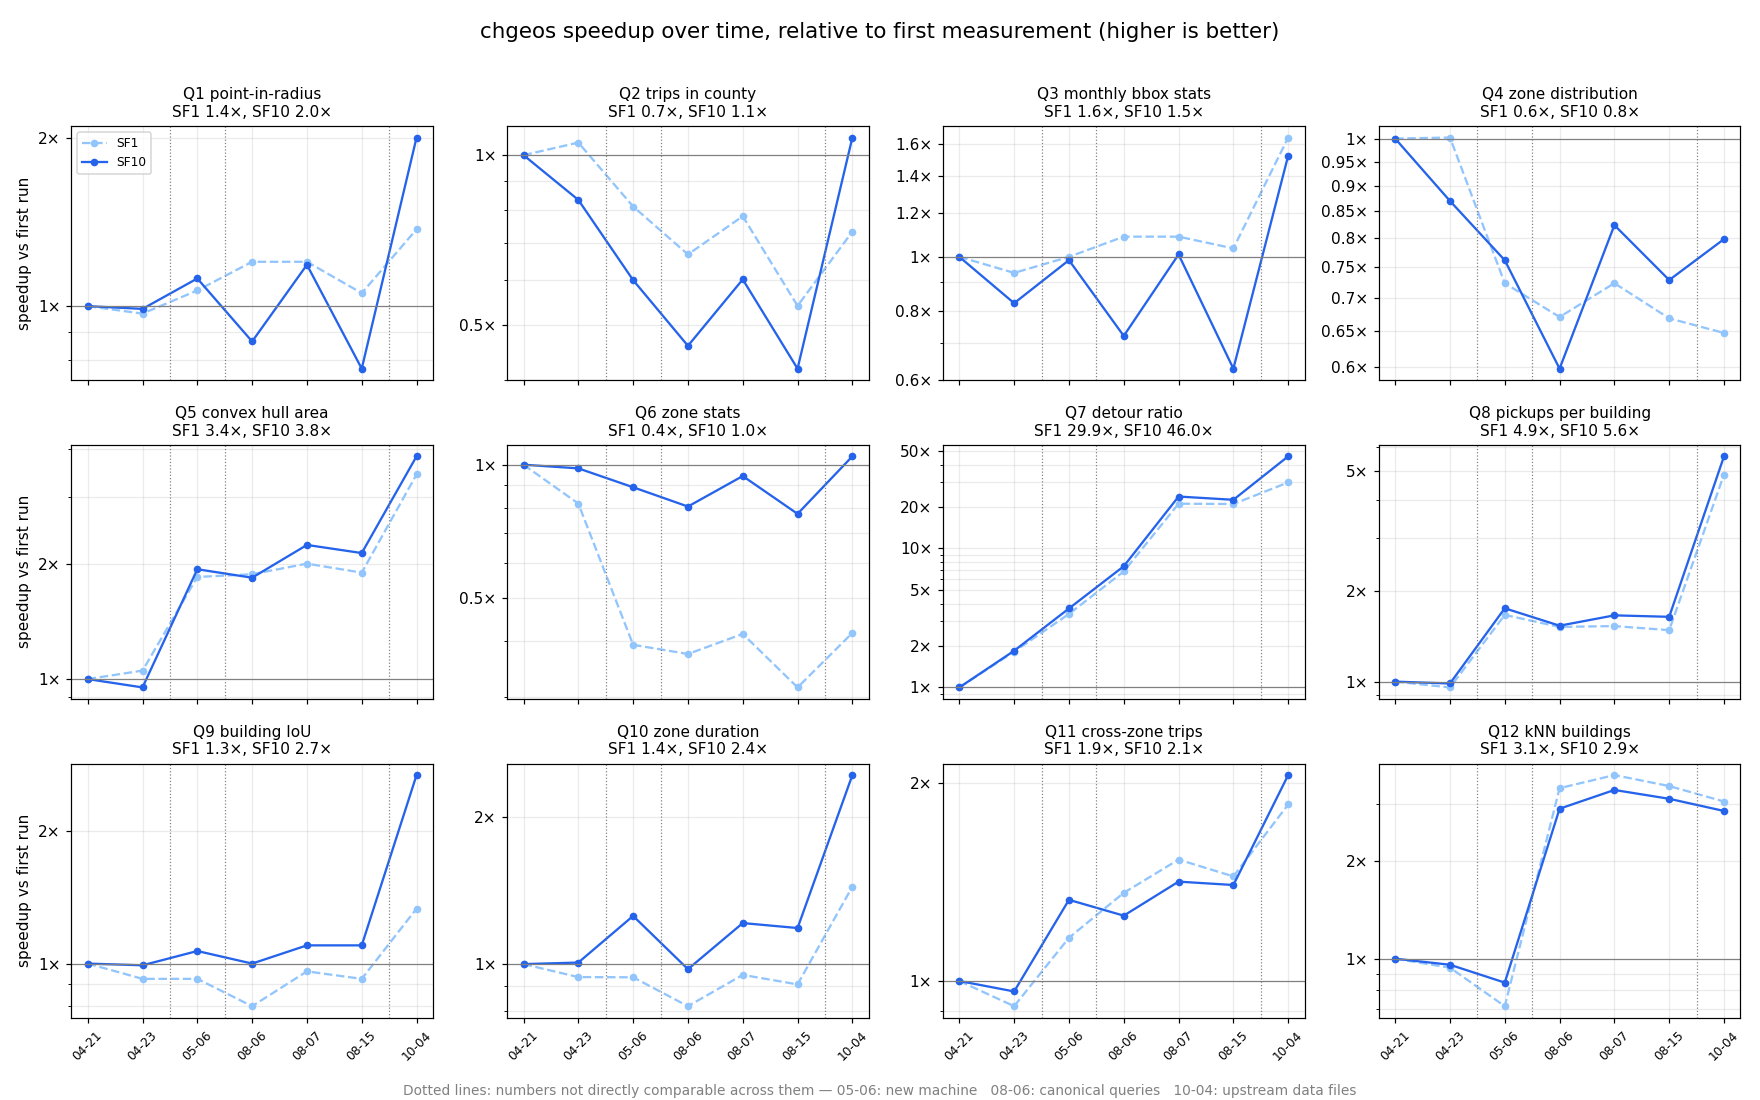
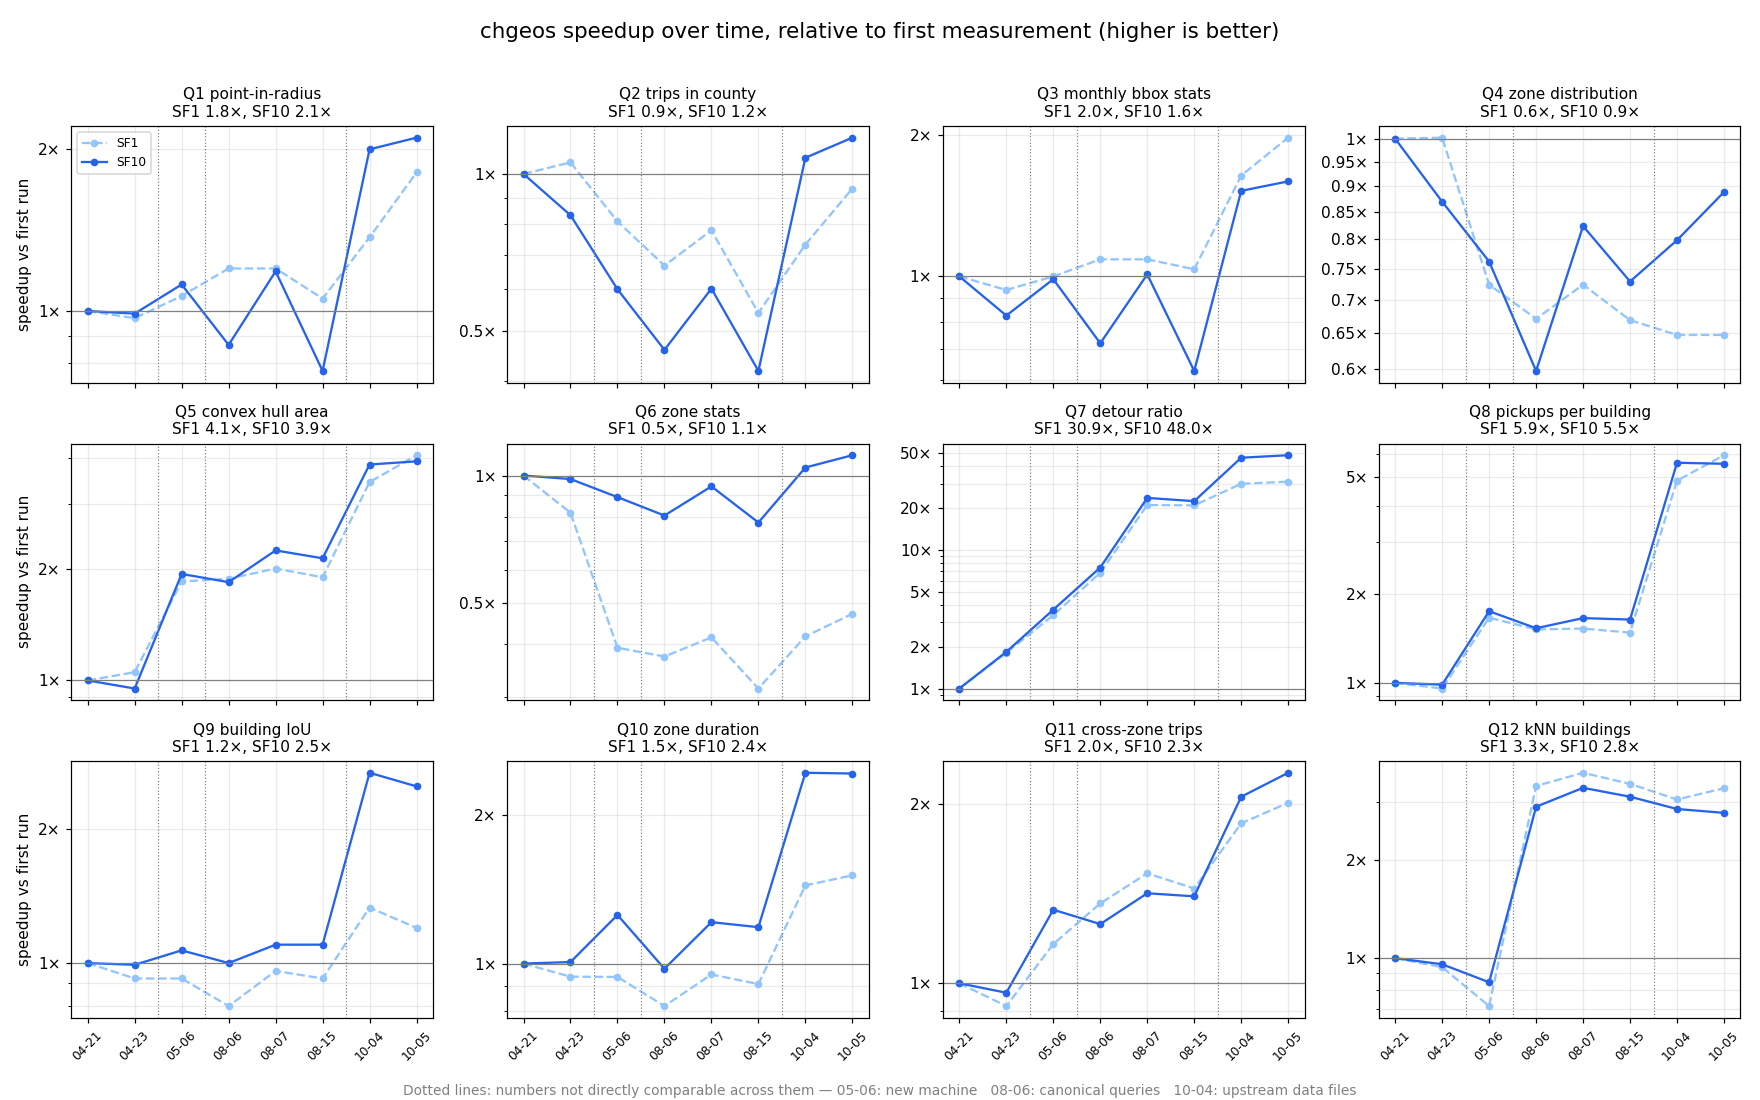
Re-measure all engines on an idle machine
chgeos SF1/SF10 at CH d0c96a2e6aa, then DuckDB 1.5.6, SedonaDB 0.4.1
and PyCanopy 0.4.1 straight after on the same idle box (5 runs, avg,
120 s timeout). PyCanopy was ~2x faster on Q10-Q12 than in the
earlier busy-machine run and now takes SF1 Q10-Q12 and SF10 Q11-Q12;
SedonaDB ties SF10 Q10. Tallies: SF1 7 wins + 2 ties, SF10 6 wins +
3 ties. Prose and README status updated to match.

Claude-Session: https://claude.ai/code/session_01JZhEQgwKLv4Drk38uDWLaY

diff --git a/BENCHMARK.md b/BENCHMARK.md
@@ -6,11 +6,11 @@ Apache Sedona (SedonaDB) and PyCanopy on the spatial benchmark suite.
 **Hardware:** AMD Ryzen 9 5900X, 128 GB RAM  
 **Dataset:** synthetic taxi trip data from https://github.com/apache/sedona-spatialbench — SF1 = 6M trips, SF10 = 60M trips  
 **Timeout:** 120 s (all engines)  
-**chgeos version:** 2026-10-04 (CH `95fbe4909e6`)  
+**chgeos version:** 2026-10-04 (CH `d0c96a2e6aa`)  
 **DuckDB version:** 1.5.6  
 **SedonaDB version:** 0.4.1  
 **PyCanopy version:** 0.4.1 (Polars 1.44.2)  
-**Competitors measured:** 2026-10-04, same box and split Parquet files, via sedona-spatialbench `run_benchmark.py`  
+**Competitors measured:** 2026-10-04/05, same box and split Parquet files, via sedona-spatialbench `run_benchmark.py`, straight after the chgeos runs on an otherwise idle machine  
 **Runs:** 5 per query (average reported)  
 **Winner:** fastest engine; margins under 5% are reported as a tie
 
@@ -20,29 +20,28 @@ Apache Sedona (SedonaDB) and PyCanopy on the spatial benchmark suite.
 
 | Query | Description                        | chgeos   | DuckDB   | Sedona  | PyCanopy | Winner   |
 |-------|------------------------------------|----------|----------|---------|----------|----------|
-| Q1    | Point-in-radius filter             | 0.07 s   | 0.12 s   | 0.53 s  | 0.36 s   | chgeos   |
-| Q2    | Count trips in county polygon      | 0.08 s   | 0.19 s   | 1.34 s  | 0.35 s   | chgeos   |
-| Q3    | Monthly stats in bbox+buffer       | 0.05 s   | 0.17 s   | 0.62 s  | 0.39 s   | chgeos   |
-| Q4    | Zone distribution (top-1000 tips)  | 0.68 s   | 0.70 s   | 2.53 s  | 2.42 s   | Tie      |
-| Q5    | Convex hull area per customer/month| 0.46 s   | 0.83 s   | 3.83 s  | 1.62 s   | chgeos   |
-| Q6    | Zone stats for bbox-intersect zones| 0.77 s   | 0.88 s   | 2.32 s  | 4.52 s   | chgeos   |
-| Q7    | Detour ratio (all trips)           | 0.14 s   | 0.28 s   | 0.78 s  | 2.50 s   | chgeos   |
-| Q8    | Nearby pickups per building        | 0.05 s   | 0.48 s   | 0.34 s  | 2.20 s   | chgeos   |
-| Q9    | Building conflation via IoU        | 0.02 s   | 0.03 s   | 0.13 s  | 0.02 s   | chgeos   |
-| Q10   | Zone avg duration/distance         | 2.58 s   | 110.10 s | 6.20 s  | 4.18 s   | chgeos   |
-| Q11   | Cross-zone trip count              | 4.60 s   | TIMEOUT  | 10.39 s | 5.97 s   | chgeos   |
-| Q12   | 5 nearest buildings per trip (kNN) | 2.44 s   | TIMEOUT  | 3.97 s  | 3.31 s   | chgeos   |
+| Q1    | Point-in-radius filter             | 0.05 s   | 0.12 s   | 0.15 s  | 0.28 s   | chgeos   |
+| Q2    | Count trips in county polygon      | 0.06 s   | 0.18 s   | 0.68 s  | 0.23 s   | chgeos   |
+| Q3    | Monthly stats in bbox+buffer       | 0.04 s   | 0.17 s   | 0.28 s  | 0.29 s   | chgeos   |
+| Q4    | Zone distribution (top-1000 tips)  | 0.68 s   | 0.66 s   | 0.72 s  | 1.48 s   | Tie      |
+| Q5    | Convex hull area per customer/month| 0.39 s   | 0.67 s   | 2.63 s  | 0.74 s   | chgeos   |
+| Q6    | Zone stats for bbox-intersect zones| 0.68 s   | 0.83 s   | 0.70 s  | 1.50 s   | Tie      |
+| Q7    | Detour ratio (all trips)           | 0.14 s   | 0.27 s   | 0.53 s  | 0.53 s   | chgeos   |
+| Q8    | Nearby pickups per building        | 0.04 s   | 0.45 s   | 0.16 s  | 0.27 s   | chgeos   |
+| Q9    | Building conflation via IoU        | 0.02 s   | 0.03 s   | 0.03 s  | 0.03 s   | chgeos   |
+| Q10   | Zone avg duration/distance         | 2.46 s   | 103.21 s | 2.44 s  | 2.20 s   | PyCanopy |
+| Q11   | Cross-zone trip count              | 4.25 s   | TIMEOUT  | 3.99 s  | 2.47 s   | PyCanopy |
+| Q12   | 5 nearest buildings per trip (kNN) | 2.25 s   | TIMEOUT  | 3.19 s  | 1.74 s   | PyCanopy |
 
-**SF1 wins — chgeos: 11, DuckDB: 0, Sedona: 0, PyCanopy: 0, Ties: 1**
+**SF1 wins — chgeos: 7, DuckDB: 0, Sedona: 0, PyCanopy: 3, Ties: 2**
 
-SF1 Q4 was re-run warm on an idle box (10 runs, min/avg/max 0.66/0.68/0.71 s); the suite run's
-1.61 s average was one cold read of `zone.parquet`. Q4 is dominated by that zone read, which is the
-same file at every scale factor, so SF1 and SF10 Q4 land close together.
+Q4 is dominated by reading `zone.parquet`, which is the same file at every scale factor, so SF1
+and SF10 Q4 land close together (0.68 s / 1.02 s) and all three fast engines tie on it.
 
-SF1 Q10/Q11 are from a freshly restarted server (CH `4cae932a453`, 5 runs: Q10 2.49/2.58/2.66 s,
-Q11 5.89/6.03/6.24 s). On a server that has already run the SF10 suite they come out ~20% / ~7%
-slower (3.19 s / 6.48 s measured back to back, same build): the slowdown is server state left by
-earlier heavy queries, not the code.
+SF1 Q10–Q12 go to PyCanopy (2.20 / 2.47 / 1.74 s against chgeos 2.46 / 4.25 / 2.25 s); SedonaDB
+is also ahead of chgeos on Q10 and Q11 (2.44 / 3.99 s). These three queries are the spatial joins
+and the kNN, where chgeos does its work in `SpatialRTreeJoin` and the WASM `st_knn`; see the Q10,
+Q11 and Q12 notes below.
 
 **The SF1 tally understates DuckDB, and the cause is our Parquet files.** `sf1/trip.parquet`
 holds 6M rows in only 4 row groups. DuckDB caps a scan pipeline's thread count at the number
@@ -67,27 +66,31 @@ explained by this — see the Q7 note below.
 
 | Query | Description                        | chgeos    | DuckDB   | Sedona   | PyCanopy | Winner   |
 |-------|------------------------------------|-----------|----------|----------|----------|----------|
-| Q1    | Point-in-radius filter             | 0.31 s    | 0.41 s   | 1.45 s   | 3.19 s   | chgeos   |
-| Q2    | Count trips in county polygon      | 0.38 s    | 0.47 s   | 2.29 s   | 3.02 s   | chgeos   |
-| Q3    | Monthly stats in bbox+buffer       | 0.33 s    | 0.50 s   | 2.20 s   | 3.34 s   | chgeos   |
-| Q4    | Zone distribution (top-1000 tips)  | 1.14 s    | 0.98 s   | 4.48 s   | 6.48 s   | DuckDB   |
-| Q5    | Convex hull area per customer/month| 5.24 s    | 6.28 s   | 25.94 s  | 21.68 s  | chgeos   |
-| Q6    | Zone stats for bbox-intersect zones| 1.59 s    | 1.55 s   | 4.58 s   | 12.47 s  | Tie      |
-| Q7    | Detour ratio (all trips)           | 0.96 s    | 0.80 s   | 2.95 s   | 23.65 s  | DuckDB   |
-| Q8    | Nearby pickups per building        | 0.50 s    | 1.52 s   | 1.87 s   | 16.11 s  | chgeos   |
-| Q9    | Building conflation via IoU        | 0.04 s    | 0.14 s   | 0.25 s   | 0.05 s   | chgeos   |
-| Q10   | Zone avg duration/distance         | 14.05 s   | TIMEOUT  | 18.03 s  | 31.21 s  | chgeos   |
-| Q11   | Cross-zone trip count              | 28.21 s   | TIMEOUT  | 36.39 s  | 34.27 s  | chgeos   |
-| Q12   | 5 nearest buildings per trip (kNN) | 31.67 s   | TIMEOUT  | 41.47 s  | 36.23 s  | chgeos   |
+| Q1    | Point-in-radius filter             | 0.29 s    | 0.32 s   | 0.62 s   | 2.23 s   | chgeos   |
+| Q2    | Count trips in county polygon      | 0.34 s    | 0.47 s   | 1.36 s   | 2.02 s   | chgeos   |
+| Q3    | Monthly stats in bbox+buffer       | 0.32 s    | 0.44 s   | 1.04 s   | 2.89 s   | chgeos   |
+| Q4    | Zone distribution (top-1000 tips)  | 1.02 s    | 1.02 s   | 1.77 s   | 5.39 s   | Tie      |
+| Q5    | Convex hull area per customer/month| 5.14 s    | 6.54 s   | 20.87 s  | 8.63 s   | chgeos   |
+| Q6    | Zone stats for bbox-intersect zones| 1.49 s    | 1.51 s   | 2.05 s   | 6.37 s   | Tie      |
+| Q7    | Detour ratio (all trips)           | 0.92 s    | 0.81 s   | 1.92 s   | 7.07 s   | DuckDB   |
+| Q8    | Nearby pickups per building        | 0.51 s    | 1.50 s   | 1.37 s   | 3.32 s   | chgeos   |
+| Q9    | Building conflation via IoU        | 0.04 s    | 0.13 s   | 0.05 s   | 0.06 s   | chgeos   |
+| Q10   | Zone avg duration/distance         | 14.10 s   | TIMEOUT  | 14.32 s  | 21.09 s  | Tie      |
+| Q11   | Cross-zone trip count              | 25.72 s   | TIMEOUT  | 29.98 s  | 15.86 s  | PyCanopy |
+| Q12   | 5 nearest buildings per trip (kNN) | 32.54 s   | TIMEOUT  | 36.37 s  | 19.45 s  | PyCanopy |
 
-**SF10 wins — chgeos: 9, DuckDB: 2, Sedona: 0, PyCanopy: 0, Ties: 1**
+**SF10 wins — chgeos: 6, DuckDB: 1, Sedona: 0, PyCanopy: 2, Ties: 3**
 
-chgeos SF10 was re-measured on 2026-10-04 at CH `95fbe4909e6` (COLUMNAR_V1 wire,
-5 runs, averages, load average ~19 from unrelated processes, so treat sub-2-second rows as
-±10%). DuckDB, SedonaDB and PyCanopy were all re-measured the same day on the same split files
-(5 runs, averages, 120 s timeout).
+chgeos SF10 was re-measured on 2026-10-04 at CH `d0c96a2e6aa` (COLUMNAR_V1 wire,
+5 runs, averages, idle machine, load average ~1 at start). An earlier run the same day at
+load ~19 was 4–10% slower on Q1–Q4, Q6, Q7 and Q11; a same-session A/B confirmed the
+difference was machine load, not code. DuckDB, SedonaDB and PyCanopy were all re-measured the same day on the same split files
+(5 runs, averages, 120 s timeout) straight after the chgeos runs, also on an idle machine. An
+earlier competitor run on 2026-10-04 on a busier machine had PyCanopy roughly 2× slower on
+Q10–Q12; with every engine measured on an idle machine, PyCanopy takes SF10 Q11 and Q12 and
+SedonaDB ties Q10.
 
-Q10 and Q11 moved from losses to wins (Q10 30.0 → 14.0 s, Q11 45.6 → 26.9 s), all from
+Q10 and Q11 got 2× faster since 2026-10-03 (Q10 30.0 → 14.1 s, Q11 45.6 → 25.7 s), all from
 host-side work in `SpatialRTreeJoin`, not WASM:
 - predicate evaluation groups candidates by left-row runs, resolves column pointers once per
   probe block and copies only the columns the predicate reads (`77700fc9f0a`, `95fbe4909e6`);
@@ -118,7 +121,7 @@ the fastest and slowest of the 5 runs, so the sub-second rows are tighter than
 usual; they are still Parquet-I/O bound and still drift ±25% across machine
 states. The Q3, Q8 and Q11 ties are all under 5%, and Q3 and Q11 flipped from a
 DuckDB and a PyCanopy win purely on that margin.
-Competitor columns are re-measured on 2026-10-04 (DuckDB 1.5.6, SedonaDB 0.4.1, PyCanopy 0.4.1).
+Competitor columns are re-measured on 2026-10-04/05 (DuckDB 1.5.6, SedonaDB 0.4.1, PyCanopy 0.4.1).
 Treat the sub-2-second SF10 rows as indicative, not as a ranking.
 
 ![SF10 benchmark](sf10.png)
@@ -145,8 +148,8 @@ hint is required to keep the WASM convex hull running on parallel threads before
 ORDER BY merge. Without it, ClickHouse defers the function to the single-threaded
 post-sort stage, causing ~7× slowdown. Q5 also needs `max_bytes_ratio_before_external_group_by=0`
 at SF10: it accumulates ~15 GiB across 3.1M groups, and the default ratio spills to disk at
-0.5 × `max_server_memory_usage`, costing ~3.5 s. chgeos now leads at both scales (0.46 s vs DuckDB 0.83 s at SF1,
-5.24 s vs 6.28 s at SF10); PyCanopy is 21.7 s and SedonaDB 25.9 s at SF10.
+0.5 × `max_server_memory_usage`, costing ~3.5 s. chgeos leads at both scales (0.39 s vs DuckDB 0.67 s and PyCanopy 0.74 s at SF1,
+5.14 s vs DuckDB 6.54 s at SF10); PyCanopy is 8.63 s and SedonaDB 20.9 s at SF10.
 
 `st_collect_agg` can be registered either as a plain WASM UDF fed by `groupArray`, or as a
 native aggregate via `SETTINGS is_aggregate = 1`, which accumulates rows into arena nodes
@@ -157,10 +160,10 @@ SF10 — for 0.1–0.5 GiB more peak memory, so `st_collect_agg` dropped the set
 
 **Q7 (detour ratio):** Scans all rows computing `st_length(st_makeline(...))` with no
 spatial join. WasmChainFusionPass fuses `st_makeline → st_length` into a single WASM
-call, eliminating the intermediate WKB round-trip. That is enough to beat SedonaDB (0.78 s /
-2.95 s) and PyCanopy (2.50 s / 23.65 s) at both scales, and the flat path below it
-also takes SF1 from DuckDB — 0.14 s vs 0.28 s. DuckDB still wins SF10, 0.80 s vs
-0.96 s. DuckDB 1.5.2 needed 6.53 s / 68.3 s here, so most of that engine's position is a
+call, eliminating the intermediate WKB round-trip. That is enough to beat SedonaDB (0.53 s /
+1.92 s) and PyCanopy (0.53 s / 7.07 s) at both scales, and the flat path below it
+also takes SF1 from DuckDB — 0.14 s vs 0.27 s. DuckDB still wins SF10, 0.81 s vs
+0.92 s. DuckDB 1.5.2 needed 6.53 s / 68.3 s here, so most of that engine's position is a
 25× / 73× improvement on its own side, not a chgeos regression. The remaining SF10 gap is
 the largest against chgeos in the suite, and unlike the SF1 rows above it is not an
 artifact of the file layout.
@@ -193,10 +196,12 @@ still performs per row while DuckDB reads points in place out of the Parquet blo
 
 **Q9 (building IoU):** Self-join of ~20K buildings. SpatialRTreeJoin evaluates
 non-spatial ON conditions (e.g. `b1.id < b2.id`) as a pre-filter before the spatial
-predicate, cutting candidate pairs dramatically. All engines land at or below 0.25 s, near the
-resolution of these measurements; chgeos is 0.02 s / 0.04 s against PyCanopy 0.02 s / 0.05 s.
+predicate, cutting candidate pairs dramatically. All engines land at or below 0.13 s, near the
+resolution of these measurements; chgeos is 0.02 s / 0.04 s against SedonaDB 0.03 s / 0.05 s
+and PyCanopy 0.03 s / 0.06 s.
 
-**Q10 at SF10:** chgeos 14.0 s, SedonaDB 18.0 s, PyCanopy 31.2 s, DuckDB TIMEOUT. The remaining
+**Q10:** at SF10 chgeos 14.1 s and SedonaDB 14.3 s tie, PyCanopy is 21.1 s and DuckDB times
+out. At SF1 PyCanopy wins, 2.20 s against SedonaDB 2.44 s and chgeos 2.46 s. The remaining
 cost is the 60M-trip R-tree build (~5 s) plus a probe tail: a few zone blocks with millions of
 candidate trips each run longer than the rest on one thread.
 
@@ -206,13 +211,14 @@ dropoff zone with two independent spatial joins, then match the two results on `
 The spatialbench SQL text instead chains the dropoff join onto the pickup join's output; the
 answer is identical (verified against the reference at SF1 and SF10). With the chained text
 chgeos measured ~6.0 s at SF1 (a tie with PyCanopy) and 26.9 s at SF10; with the two-join
-plan it is 4.60 s and 28.2 s (5 runs, fresh server), against PyCanopy 5.97 s / 34.3 s and
-SedonaDB 10.4 s / 36.4 s. DuckDB runs the chained SQL and times out at both scales.
+plan it is 4.25 s and 25.7 s. PyCanopy is faster at both scales, 2.47 s / 15.9 s, and SedonaDB
+is 3.99 s / 30.0 s. DuckDB runs the chained SQL and times out at both scales.
 
 **Q12 (kNN):** WASM `st_knn` uses a static 2-D centroid k-d tree for candidate selection,
 then refines the surviving candidates to an exact point-to-geometry distance. The tree
 alone reports centroid distance, which is not what `ST_Distance` means — before the
 refinement landed, Q12 disagreed with the reference answers. Refinement reads coordinates
 flattened once at index build, so it needs no GEOS parse per row, and Q12 got
-*faster*: 10.9 s → 2.0 s at SF1, 103.8 s → 27.3 s at SF10. chgeos now leads the query at
-both scales; DuckDB times out at both, SedonaDB is 3.97 s / 41.5 s and PyCanopy 3.31 s / 36.2 s.
+*faster*: 10.9 s → 2.0 s at SF1, 103.8 s → 27.3 s at SF10. chgeos is now 2.25 s / 32.5 s;
+PyCanopy leads at both scales with 1.74 s / 19.5 s, SedonaDB is 3.19 s / 36.4 s and DuckDB
+times out at both.

diff --git a/README.md b/README.md
@@ -13,13 +13,15 @@ This is my pet-project with `-Ofun` mentality.
 
 Having said that, I'm not saying it will never be useful.
 
-## Status (2026-10-04)
+## Status (2026-10-05)
 
 **Mostly done in its current scope.** On the [SpatialBench](https://github.com/apache/sedona-spatialbench)
-suite chgeos is the fastest engine on 11 of 12 queries at SF1 (one tie) and 9 of 12 at SF10
-(one tie), against DuckDB 1.5.6, SedonaDB 0.4.1 and PyCanopy 0.4.1. The only two losses,
-SF10 Q4 and Q7, are to DuckDB, and both are bound by ClickHouse's Parquet reader, not by
-geometry. See [BENCHMARK.md](BENCHMARK.md).
+suite, with every engine measured on an idle machine, chgeos is the fastest engine on 7 of 12
+queries at SF1 (two ties) and 6 of 12 at SF10 (three ties), against DuckDB 1.5.6, SedonaDB 0.4.1
+and PyCanopy 0.4.1. It wins every scan, filter and aggregation query except SF10 Q7, which
+DuckDB takes and which is bound by ClickHouse's Parquet reader. The losses are the heavy
+spatial joins and the kNN: PyCanopy takes Q10–Q12 at SF1 and Q11–Q12 at SF10. See
+[BENCHMARK.md](BENCHMARK.md).
 
 What is left is not in this repository:
 - **Parquet read speed.** ClickHouse's reader is 1.6–2.7× slower than DuckDB's on a plain scan
